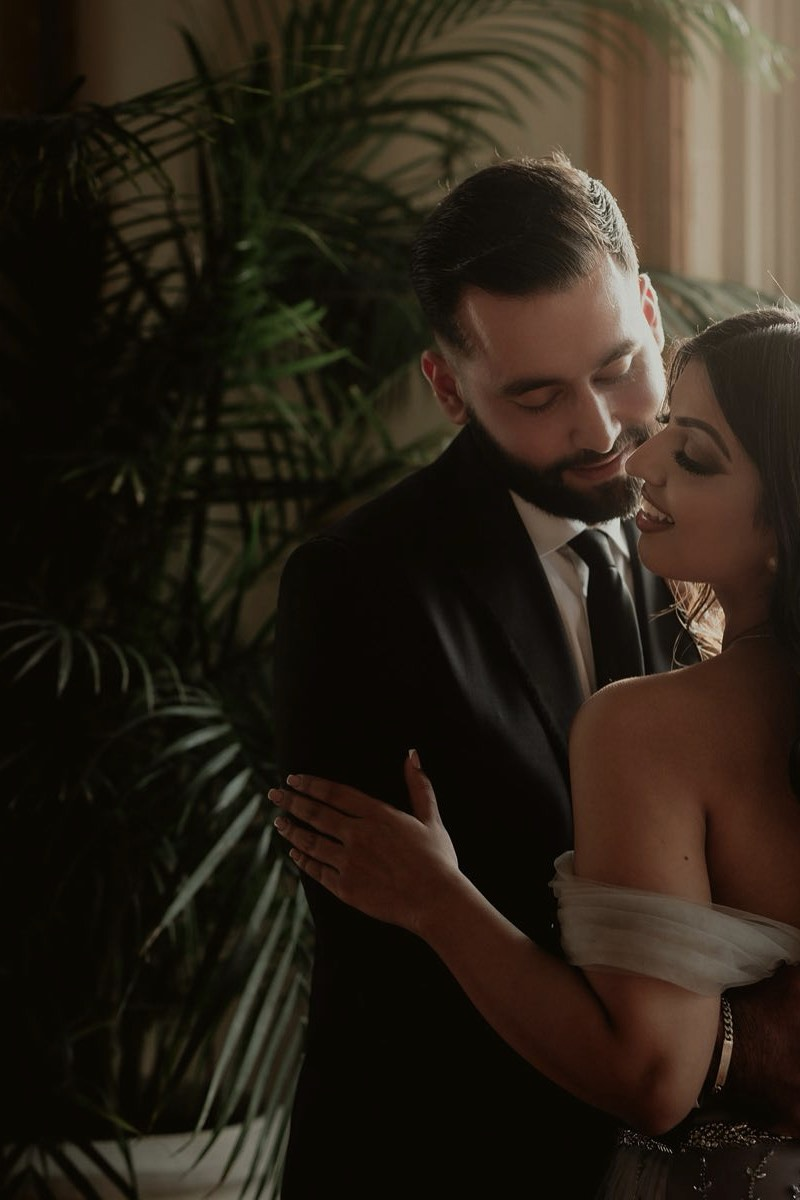
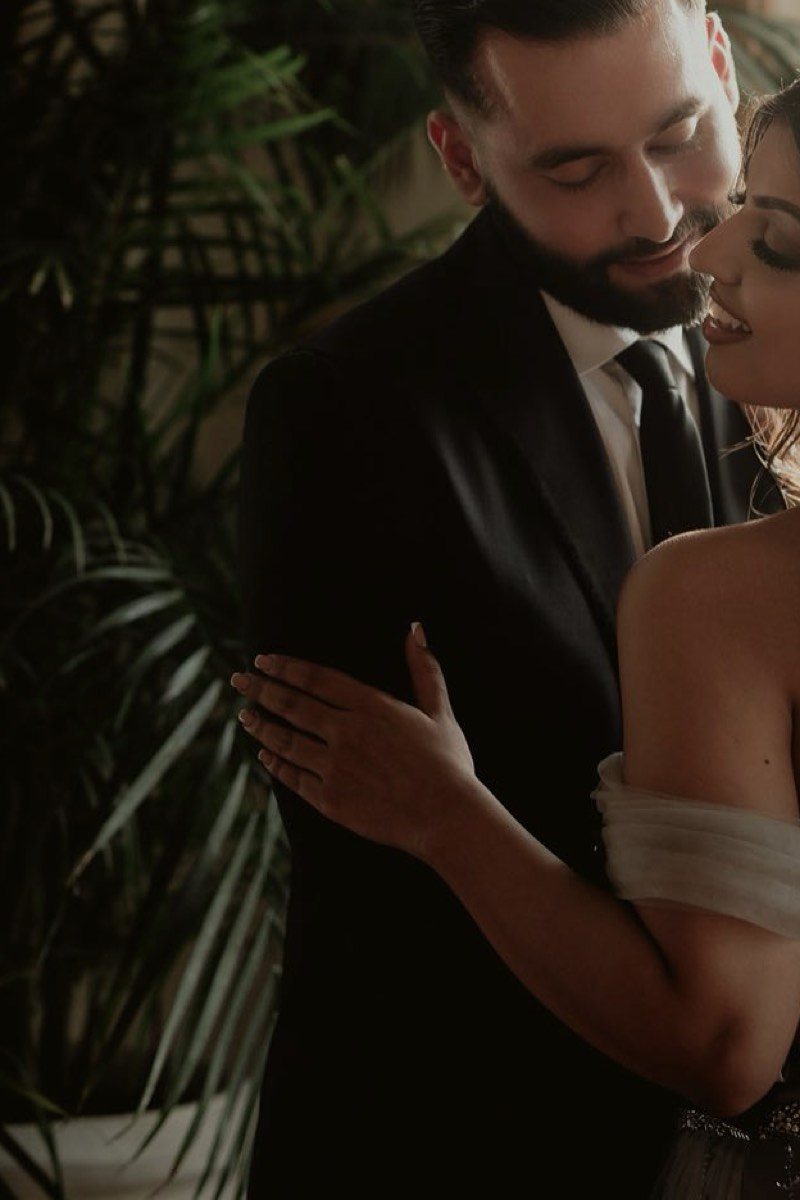
Fix dead space in the mobile hero crop for stage photos
For a landscape stage photo cropped to the portrait ('ht') shape, the crop
always used the full source height — the only way to get a 2:3 shape from
a 1800x1200 source. That meant oy had no room to move (ih-ch was 0), so the
crop started at row 0 no matter where the performer actually stood, always
showing the full empty rigging above them regardless of focus/SUBJECT_AT.

Landscape sources now cap the crop to 78% of the source height, opening up
vertical room, and use a tighter subject placement (0.20 vs the usual 0.36)
to spend that room cutting dead space rather than just re-centering within
it. Confirmed visually on all three concert slides.

That narrower crop can go under the smallest served width (624px vs the
800px floor), so sips is allowed to upscale slightly for this case only —
a background slideshow photo, not a print — instead of silently skipping
the size.

Second, separate bug this surfaced: the horizontal crop was always
centered on the source frame (ox = (iw-cw)/2), which works until the crop
narrows and the subject isn't centered — vancouver-concert-live-13x's
singer sits at the right of frame and was cut off entirely once the
vertical fix shrank the crop width. SLIDES entries can now carry an
optional focus_x (defaults to centred); 13x gets 0.72.

Contrast re-verified across all 9 hero slides: worst 8.23:1 at 390px,
9.58:1 at 1440px, against 4.5. No horizontal scroll.

diff --git a/index.html b/index.html
@@ -273,8 +273,8 @@
         </picture>
         <picture>
           <source media="(min-aspect-ratio: 1/1)" srcset="assets/img/concerts/vancouver-concert-live-12x-hw-800.jpg?v=09117c60 800w, assets/img/concerts/vancouver-concert-live-12x-hw-1200.jpg?v=1e5d291d 1200w, assets/img/concerts/vancouver-concert-live-12x-hw-1800.jpg?v=1437b29c 1800w" sizes="100vw">
-          <img src="assets/img/concerts/vancouver-concert-live-12x-ht-800.jpg?v=0d26e2d3"
-               srcset="assets/img/concerts/vancouver-concert-live-12x-ht-800.jpg?v=0d26e2d3 800w" sizes="100vw"
+          <img src="assets/img/concerts/vancouver-concert-live-12x-ht-800.jpg?v=a41e9a8f"
+               srcset="assets/img/concerts/vancouver-concert-live-12x-ht-800.jpg?v=a41e9a8f 800w, assets/img/concerts/vancouver-concert-live-12x-ht-1200.jpg?v=798a127b 1200w, assets/img/concerts/vancouver-concert-live-12x-ht-1800.jpg?v=85eeeddd 1800w" sizes="100vw"
                alt="" aria-hidden="true"
                loading="lazy" decoding="async"
                data-hero-index="2">
@@ -289,16 +289,16 @@
         </picture>
         <picture>
           <source media="(min-aspect-ratio: 1/1)" srcset="assets/img/weddings/vancouver-wedding-story-03x-hw-800.jpg?v=b65434f6 800w, assets/img/weddings/vancouver-wedding-story-03x-hw-1200.jpg?v=65513fe4 1200w, assets/img/weddings/vancouver-wedding-story-03x-hw-1800.jpg?v=267803c8 1800w" sizes="100vw">
-          <img src="assets/img/weddings/vancouver-wedding-story-03x-ht-800.jpg?v=3fb06cad"
-               srcset="assets/img/weddings/vancouver-wedding-story-03x-ht-800.jpg?v=3fb06cad 800w" sizes="100vw"
+          <img src="assets/img/weddings/vancouver-wedding-story-03x-ht-800.jpg?v=d60c62cc"
+               srcset="assets/img/weddings/vancouver-wedding-story-03x-ht-800.jpg?v=d60c62cc 800w, assets/img/weddings/vancouver-wedding-story-03x-ht-1200.jpg?v=4302239c 1200w, assets/img/weddings/vancouver-wedding-story-03x-ht-1800.jpg?v=5b6b6926 1800w" sizes="100vw"
                alt="" aria-hidden="true"
                loading="lazy" decoding="async"
                data-hero-index="4">
         </picture>
         <picture>
           <source media="(min-aspect-ratio: 1/1)" srcset="assets/img/concerts/vancouver-concert-live-15x-hw-800.jpg?v=fed6a9c1 800w, assets/img/concerts/vancouver-concert-live-15x-hw-1200.jpg?v=9f80c109 1200w, assets/img/concerts/vancouver-concert-live-15x-hw-1800.jpg?v=5dacafe4 1800w" sizes="100vw">
-          <img src="assets/img/concerts/vancouver-concert-live-15x-ht-800.jpg?v=b2ecde79"
-               srcset="assets/img/concerts/vancouver-concert-live-15x-ht-800.jpg?v=b2ecde79 800w" sizes="100vw"
+          <img src="assets/img/concerts/vancouver-concert-live-15x-ht-800.jpg?v=4617963f"
+               srcset="assets/img/concerts/vancouver-concert-live-15x-ht-800.jpg?v=4617963f 800w, assets/img/concerts/vancouver-concert-live-15x-ht-1200.jpg?v=3b4f804e 1200w, assets/img/concerts/vancouver-concert-live-15x-ht-1800.jpg?v=970ffb51 1800w" sizes="100vw"
                alt="" aria-hidden="true"
                loading="lazy" decoding="async"
                data-hero-index="5">
@@ -313,16 +313,16 @@
         </picture>
         <picture>
           <source media="(min-aspect-ratio: 1/1)" srcset="assets/img/weddings/vancouver-wedding-story-05x-hw-800.jpg?v=475f1a0e 800w, assets/img/weddings/vancouver-wedding-story-05x-hw-1200.jpg?v=23fcb975 1200w, assets/img/weddings/vancouver-wedding-story-05x-hw-1800.jpg?v=aa62b45a 1800w" sizes="100vw">
-          <img src="assets/img/weddings/vancouver-wedding-story-05x-ht-800.jpg?v=adf0cb72"
-               srcset="assets/img/weddings/vancouver-wedding-story-05x-ht-800.jpg?v=adf0cb72 800w" sizes="100vw"
+          <img src="assets/img/weddings/vancouver-wedding-story-05x-ht-800.jpg?v=9ca936fc"
+               srcset="assets/img/weddings/vancouver-wedding-story-05x-ht-800.jpg?v=9ca936fc 800w, assets/img/weddings/vancouver-wedding-story-05x-ht-1200.jpg?v=3f37a34a 1200w, assets/img/weddings/vancouver-wedding-story-05x-ht-1800.jpg?v=076a23f3 1800w" sizes="100vw"
                alt="" aria-hidden="true"
                loading="lazy" decoding="async"
                data-hero-index="7">
         </picture>
         <picture>
           <source media="(min-aspect-ratio: 1/1)" srcset="assets/img/concerts/vancouver-concert-live-13x-hw-800.jpg?v=f8345f9d 800w, assets/img/concerts/vancouver-concert-live-13x-hw-1200.jpg?v=a80b015b 1200w, assets/img/concerts/vancouver-concert-live-13x-hw-1800.jpg?v=1eae8a55 1800w" sizes="100vw">
-          <img src="assets/img/concerts/vancouver-concert-live-13x-ht-800.jpg?v=8f15874d"
-               srcset="assets/img/concerts/vancouver-concert-live-13x-ht-800.jpg?v=8f15874d 800w" sizes="100vw"
+          <img src="assets/img/concerts/vancouver-concert-live-13x-ht-800.jpg?v=2566bf4d"
+               srcset="assets/img/concerts/vancouver-concert-live-13x-ht-800.jpg?v=2566bf4d 800w, assets/img/concerts/vancouver-concert-live-13x-ht-1200.jpg?v=040a969e 1200w, assets/img/concerts/vancouver-concert-live-13x-ht-1800.jpg?v=1a3f8522 1800w" sizes="100vw"
                alt="" aria-hidden="true"
                loading="lazy" decoding="async"
                data-hero-index="8">

diff --git a/_build/hero_slides.py b/_build/hero_slides.py
@@ -44,7 +44,7 @@ SLIDES = [
     ("concerts", "vancouver-concert-live-15x", 0.40),
     ("headshots", "vancouver-headshot-studio-04x", 0.28),
     ("weddings", "vancouver-wedding-story-05x", 0.45),
-    ("concerts", "vancouver-concert-live-13x", 0.38),
+    ("concerts", "vancouver-concert-live-13x", 0.38, 0.72),
 ]
 
 
@@ -106,7 +106,9 @@ def crop_pdf(src, out_pdf, cw, ch, ox, oy):
 def main():
     os.makedirs(TMP, exist_ok=True)
     manifest = []
-    for folder, slug, focus in SLIDES:
+    for entry in SLIDES:
+        folder, slug, focus = entry[0], entry[1], entry[2]
+        focus_x = entry[3] if len(entry) > 3 else 0.5
         src = os.path.join(IMG, folder, slug + "-1800.jpg")
         if not os.path.exists(src):
             # Some sources are smaller than 1800, so take the largest that exists.
@@ -118,19 +120,38 @@ def main():
         iw, ih = dims(src)
 
         for tag, ratio in SHAPES:
-            cw, ch = iw, int(round(iw / ratio))
-            if ch > ih:
-                ch = ih
+            landscape_to_portrait = ratio < 1 and iw > ih
+            if landscape_to_portrait:
+                # A landscape stage photo cropped to a portrait shape: taking the
+                # full source height leaves oy nowhere to go (ih - ch is 0), so the
+                # crop always started at row 0 no matter where the performer
+                # actually was in the frame — showing all of the empty rigging
+                # above them regardless of focus. Capping the crop height opens
+                # up vertical room to move, and a tighter subject placement
+                # (0.20 instead of the usual 0.36) uses that room to cut the
+                # dead space rather than just re-centre within it.
+                ch = int(round(ih * 0.78))          # enough vertical room to reposition without an unusable crop width
                 cw = int(round(ch * ratio))
-            oy = max(0, min(int(round(focus * ih - SUBJECT_AT * ch)), ih - ch))
-            ox = max(0, (iw - cw) // 2)
+                subject_at = 0.20
+            else:
+                cw, ch = iw, int(round(iw / ratio))
+                if ch > ih:
+                    ch = ih
+                    cw = int(round(ch * ratio))
+                subject_at = SUBJECT_AT
+            oy = max(0, min(int(round(focus * ih - subject_at * ch)), ih - ch))
+            ox = max(0, min(int(round(focus_x * iw - 0.5 * cw)), iw - cw))
 
             pdf = os.path.join(TMP, f"{slug}-{tag}.pdf")
             crop_pdf(src, pdf, cw, ch, ox, oy)
 
             made = []
             for w in WIDTHS:
-                if w > cw:
+                # A landscape-source portrait crop can be narrower than the
+                # smallest served width (the source is only 1200px tall), so
+                # sips upscales slightly rather than skipping the size — a
+                # background slideshow photo, not a print.
+                if w > cw and not landscape_to_portrait:
                     continue
                 dst = os.path.join(IMG, folder, f"{slug}-{tag}-{w}.jpg")
                 subprocess.run(["sips", "-s", "format", "jpeg", "-s", "formatOptions", str(QUALITY[w]),
